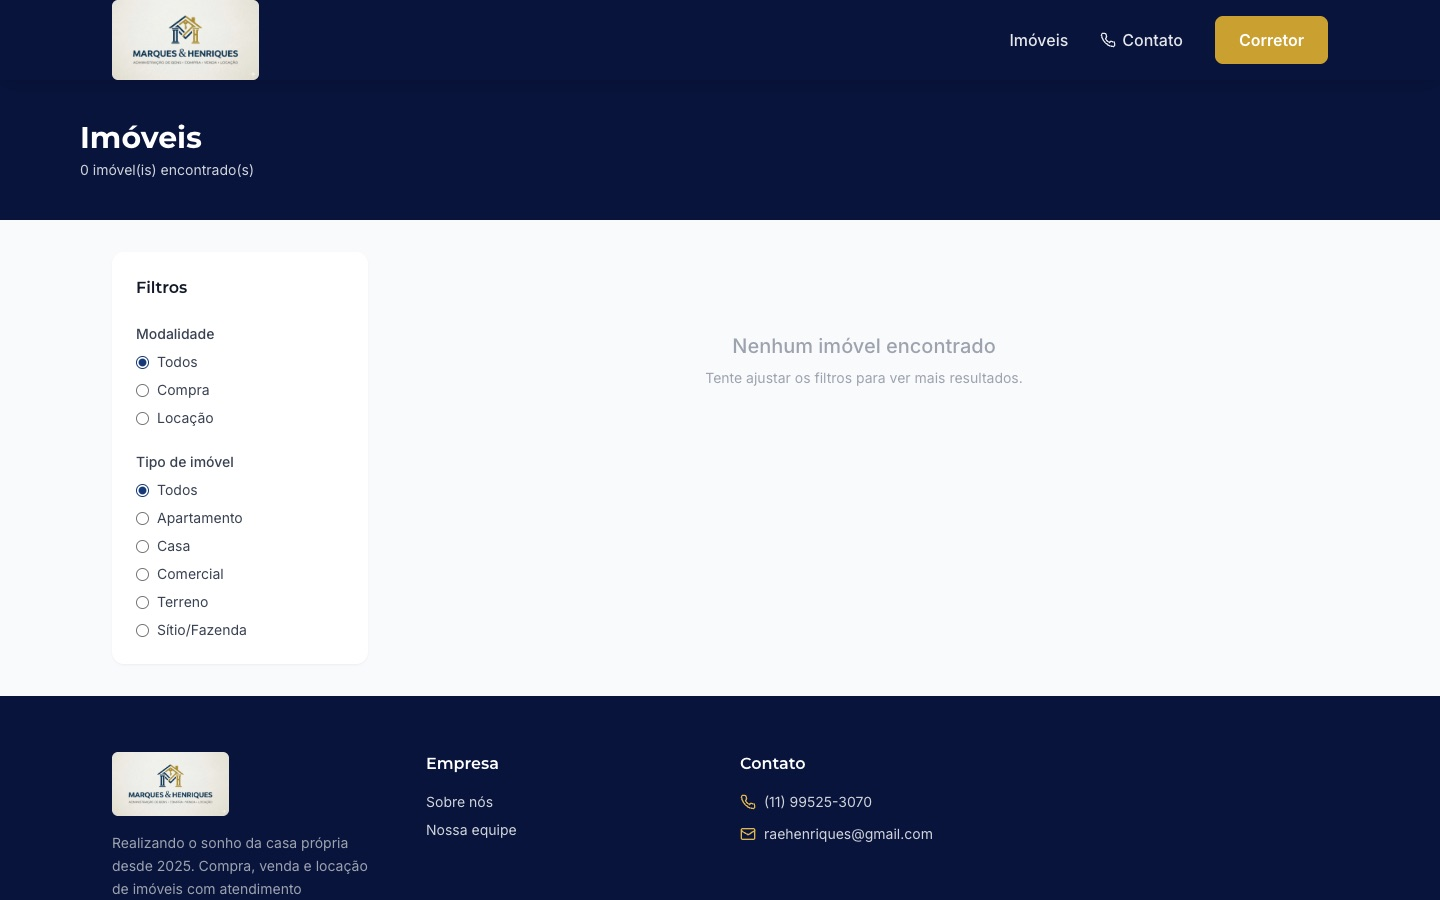
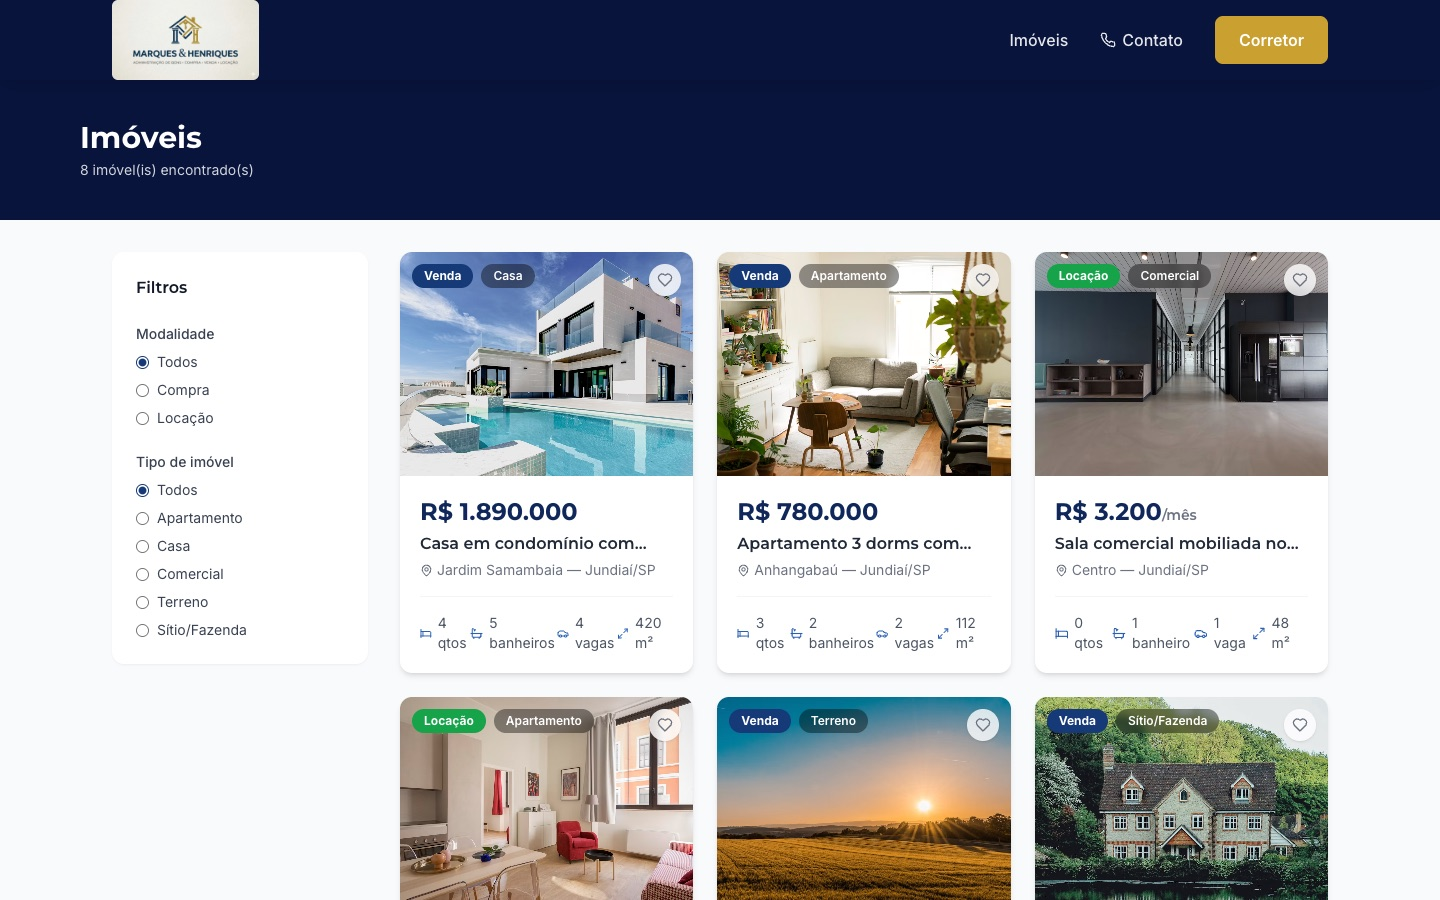
Add stronger project evidence: cantina internal screens, imobiliária listings/detail, WMK API flow

diff --git a/data.js b/data.js
@@ -70,6 +70,7 @@ window.PORTFOLIO = {
         { src: 'assets/projects/atelie_busca.jpg', alt: { pt: 'Busca com sinônimos: "backpack" encontra mochila', en: 'Synonym search: "backpack" finds the mochila' } },
         { src: 'assets/projects/atelie_mobile_home.jpg', alt: { pt: 'Versão mobile da home', en: 'Mobile home' } },
         { src: 'assets/projects/atelie_mobile_produto.jpg', alt: { pt: 'Versão mobile do produto', en: 'Mobile product page' } },
+        { src: 'assets/projects/atelie_404.jpg', alt: { pt: 'Página 404 com a identidade do ateliê', en: '404 page in the atelier identity' } },
       ],
       desc: {
         pt: 'Catálogo online de um ateliê de peças feitas à mão e personalizadas (bolsas, necessaires, mochilas). Reescrito de Flutter para um monólito Go + React: um único binário serve a API JSON e o frontend compilado.',
@@ -99,9 +100,13 @@ window.PORTFOLIO = {
       tags: ['React 18', 'TypeScript', 'Tailwind', 'Vite', 'Go', 'AWS Lambda', 'API Gateway', 'DynamoDB', 'Cognito', 'S3', 'AWS SAM', 'Vercel'],
       shots: [
         { src: 'assets/projects/imob_home.jpg', alt: { pt: 'Home com busca por modalidade, tipo e localização', en: 'Home with search by deal type, property type and location' } },
+        { src: 'assets/projects/imob_imoveis.jpg', alt: { pt: 'Listagem com filtros laterais (dados de demonstração)', en: 'Listing with sidebar filters (demo data)' } },
+        { src: 'assets/projects/imob_detalhe.jpg', alt: { pt: 'Detalhe do imóvel com carrossel e contato do corretor', en: 'Property detail with carousel and realtor contact' } },
+        { src: 'assets/projects/imob_imoveis_aluguel.jpg', alt: { pt: 'Filtro de locação aplicado', en: 'Rent filter applied' } },
+        { src: 'assets/projects/imob_home_destaques.jpg', alt: { pt: 'Imóveis em destaque na home', en: 'Featured listings on the home page' } },
         { src: 'assets/projects/imob_login.jpg', alt: { pt: 'Login do painel do corretor (Cognito)', en: 'Realtor dashboard login (Cognito)' } },
-        { src: 'assets/projects/imob_imoveis.jpg', alt: { pt: 'Listagem com filtros', en: 'Listing with filters' } },
-        { src: 'assets/projects/imob_mobile_home.jpg', alt: { pt: 'Home no celular', en: 'Mobile home' } },
+        { src: 'assets/projects/imob_mobile_imoveis.jpg', alt: { pt: 'Listagem no celular', en: 'Mobile listing' } },
+        { src: 'assets/projects/imob_mobile_detalhe.jpg', alt: { pt: 'Detalhe no celular', en: 'Mobile detail' } },
       ],
       desc: {
         pt: 'Site imobiliário completo com área pública e painel do corretor, construído em AWS Serverless. Dezessete Lambdas em Go cobrem imóveis, upload de fotos via URL pré-assinada, aprovação de usuários e sincronização de dados do corretor.',
@@ -113,12 +118,14 @@ window.PORTFOLIO = {
           'Fluxo de cadastro com aprovação de corretor por admin, triggers de Cognito (pre-auth, post-confirmation, custom message) e reset de senha.',
           'Frontend React com favoritos, carrossel de fotos, contato por WhatsApp/telefone/e-mail e painel para criar, editar e desativar imóveis.',
           'Deploy contínuo: SAM para o backend com outputs publicados no SSM, Vercel (migração planejada para Amplify) para o frontend.',
+          'Capturas feitas com o frontend real apontando para uma API local com imóveis de demonstração (o ambiente de dev estava sem anúncios).',
         ],
         en: [
           'Layered Go backend (domain / usecase / adapter) with DynamoDB, S3 and Cognito JWT validation; infrastructure as code with AWS SAM.',
           'Sign-up flow with admin approval of realtors, Cognito triggers (pre-auth, post-confirmation, custom message) and password reset.',
           'React frontend with favorites, photo carousel, WhatsApp/phone/e-mail contact and a dashboard to create, edit and deactivate listings.',
           'Continuous deploy: SAM for the backend with outputs published to SSM, Vercel (Amplify migration planned) for the frontend.',
+          'Screenshots use the real frontend against a local API serving demo listings (the dev environment had no properties yet).',
         ],
       },
     },
@@ -130,8 +137,14 @@ window.PORTFOLIO = {
       repoPrivate: true,
       tags: ['Flutter', 'Dart', 'Firebase Auth', 'Cloud Firestore', 'Firebase Storage', 'Google Sign-In', 'Multi-tenant'],
       shots: [
-        { src: 'assets/projects/cantina_login.jpg', alt: { pt: 'Tela de login do app', en: 'App login screen' } },
-        { src: 'assets/projects/cantina_mobile_login.jpg', alt: { pt: 'Login no celular', en: 'Mobile login' } },
+        { src: 'assets/projects/cantina_resp_aluno.jpg', alt: { pt: 'Comanda do aluno vista pelo responsável: saldo, pedidos, recargas e status', en: 'Student tab as seen by the guardian: balance, orders, top-ups and status' } },
+        { src: 'assets/projects/cantina_admin_cardapio.jpg', alt: { pt: 'Cardápio por categorias com item indisponível', en: 'Menu by category with an unavailable item' } },
+        { src: 'assets/projects/cantina_admin_home.jpg', alt: { pt: 'Home do administrador com troca de cantina e visualização por função', en: 'Admin home with tenant switcher and role preview' } },
+        { src: 'assets/projects/cantina_resp_home.jpg', alt: { pt: 'Home do responsável com estudantes vinculados', en: 'Guardian home with linked students' } },
+        { src: 'assets/projects/cantina_admin_comandas.jpg', alt: { pt: 'Busca de comandas filtrada por turma', en: 'Tabs search filtered by class' } },
+        { src: 'assets/projects/cantina_admin_filtros.jpg', alt: { pt: 'Filtros de comanda: turma, professor, estudante, responsável', en: 'Tab filters: class, teacher, student, guardian' } },
+        { src: 'assets/projects/cantina_admin_tenants.jpg', alt: { pt: 'Seleção de cantina (multi-tenant) após o login', en: 'Tenant selection after login' } },
+        { src: 'assets/projects/cantina_login.jpg', alt: { pt: 'Tela de login', en: 'Login screen' } },
       ],
       desc: {
         pt: 'App multi-tenant para cantinas escolares: cardápio por categorias, comanda do aluno com saldo e histórico, e perfis para administrador, cantina, responsável e aluno.',
@@ -142,13 +155,13 @@ window.PORTFOLIO = {
           'Isolamento de dados por tenant no Firestore com regras de segurança por papel; login por e-mail/senha e Google com verificação de e-mail.',
           'Atualizações em tempo real via streams do Firestore, categorias dinâmicas com seed padrão e importação de cardápio a partir de CSV.',
           'Emulador do Firebase com script de seed em Dart para desenvolvimento local; build web e mobile (Android/iOS).',
-          'Capturas mostram apenas o login: as demais telas exigem conta em uma escola cadastrada.',
+          'Capturas feitas contra os emuladores do Firebase (Auth + Firestore) com dados de demonstração; a faixa vermelha no rodapé é o aviso padrão do emulador.',
         ],
         en: [
           'Per-tenant data isolation in Firestore with role-based security rules; e-mail/password and Google sign-in with e-mail verification.',
           'Real-time updates through Firestore streams, dynamic categories with default seeding and menu import from CSV.',
           'Firebase emulator with a Dart seed script for local development; web and mobile (Android/iOS) builds.',
-          'Screenshots show only the login: the other screens require an account in a registered school.',
+          'Screenshots were taken against the Firebase emulators (Auth + Firestore) with demo data; the red strip at the bottom is the emulator’s standard warning.',
         ],
       },
     },
@@ -158,6 +171,7 @@ window.PORTFOLIO = {
       status: 'wip',
       tags: ['Go', 'chi', 'AWS Lambda', 'DynamoDB single-table', 'Cognito', 'SNS · FCM · APNS', 'AWS CDK (Go)', 'React Native', 'Expo', 'TypeScript', 'Kotlin', 'Swift', 'pnpm workspaces'],
       shots: [
+        { src: 'assets/projects/wmk_api_flow.jpg', fit: 'contain', alt: { pt: 'API real rodando local com DynamoDB Local: família, pareamento, dispositivo, localização, tempo de tela e bloqueio', en: 'Real API running locally on DynamoDB Local: family, pairing, device, location, screen time and block' } },
         { src: 'assets/projects/wmk_tests.jpg', fit: 'contain', alt: { pt: 'Saída real dos testes Go do backend e estrutura do monorepo', en: 'Real Go backend test output and monorepo layout' } },
       ],
       desc: {
@@ -169,13 +183,13 @@ window.PORTFOLIO = {
           'Monorepo pnpm com apps React Native separados para pais e filhos, pacotes compartilhados de tipos e cliente HTTP.',
           'Backend Go hexagonal (domain → app → infra/transport) rodando em Lambda + API Gateway, DynamoDB single-table com GSI e testes de domínio/casos de uso com fakes.',
           'Módulos nativos: Kotlin (Device Admin, Accessibility, UsageStats, MediaProjection) e Swift (Family Controls, DeviceActivityMonitor).',
-          'Infra com AWS CDK em Go (auth, dados, API, notificações). Sem UI para capturar ainda — o print mostra a suíte de testes real.',
+          'Infra com AWS CDK em Go (auth, dados, API, notificações). Sem UI capturável ainda — as imagens mostram a API respondendo de verdade sobre DynamoDB Local e a suíte de testes.',
         ],
         en: [
           'pnpm monorepo with separate React Native apps for parents and children plus shared type and HTTP client packages.',
           'Hexagonal Go backend (domain → app → infra/transport) on Lambda + API Gateway, DynamoDB single-table with a GSI, and domain/use-case tests with fakes.',
           'Native modules: Kotlin (Device Admin, Accessibility, UsageStats, MediaProjection) and Swift (Family Controls, DeviceActivityMonitor).',
-          'Infrastructure with AWS CDK in Go (auth, data, API, notifications). No UI to capture yet — the image shows the real test suite.',
+          'Infrastructure with AWS CDK in Go (auth, data, API, notifications). No capturable UI yet — the images show the API answering for real on DynamoDB Local and the test suite.',
         ],
       },
     },
